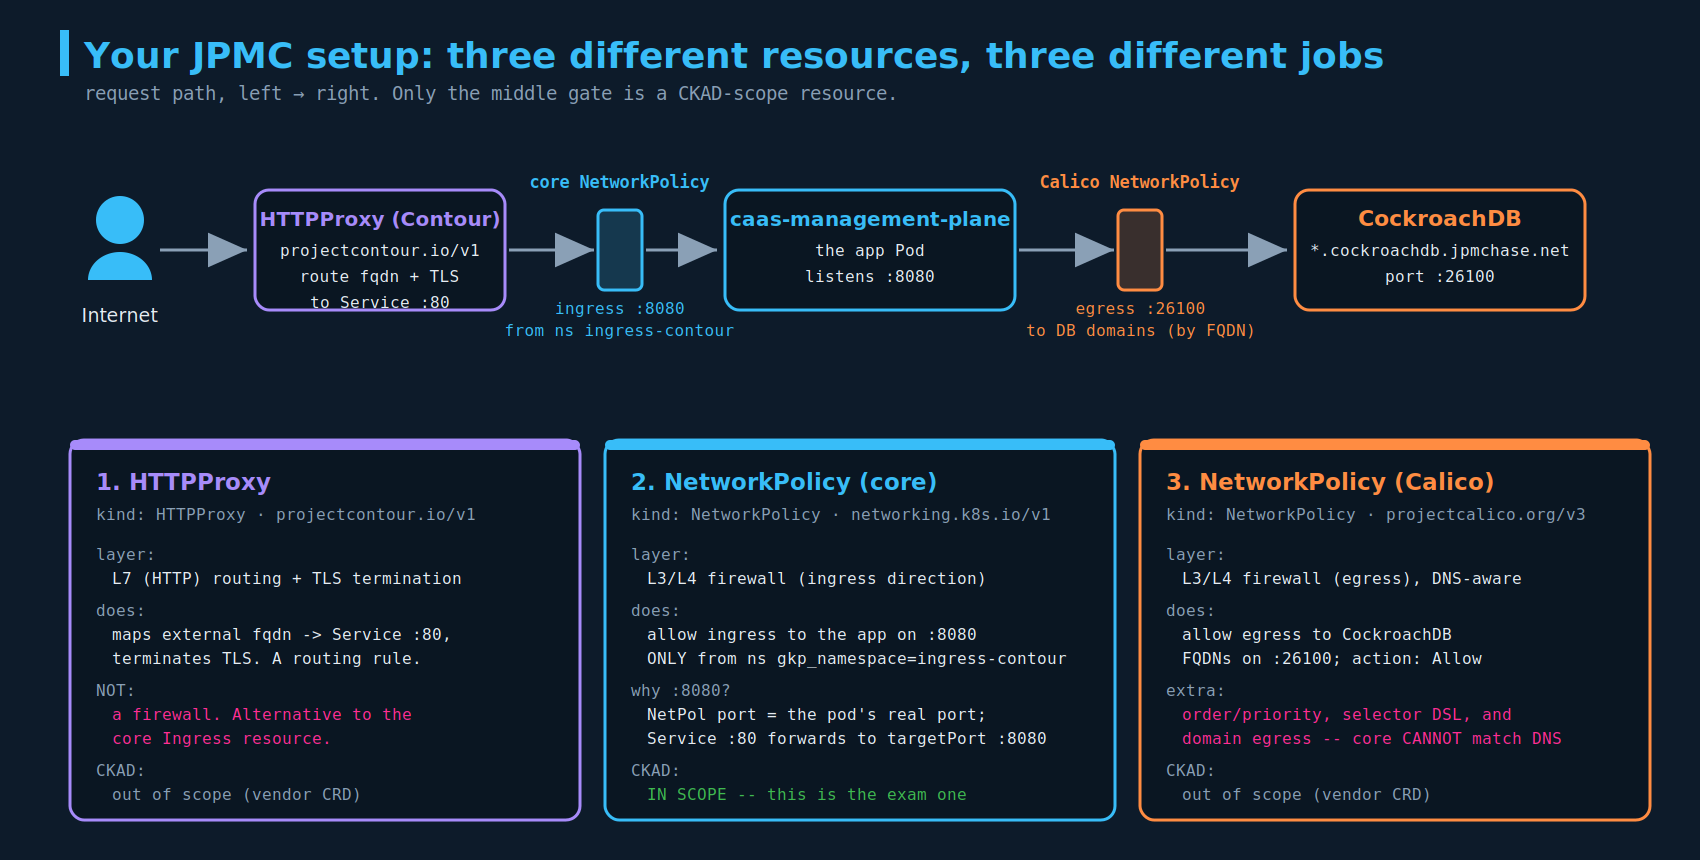
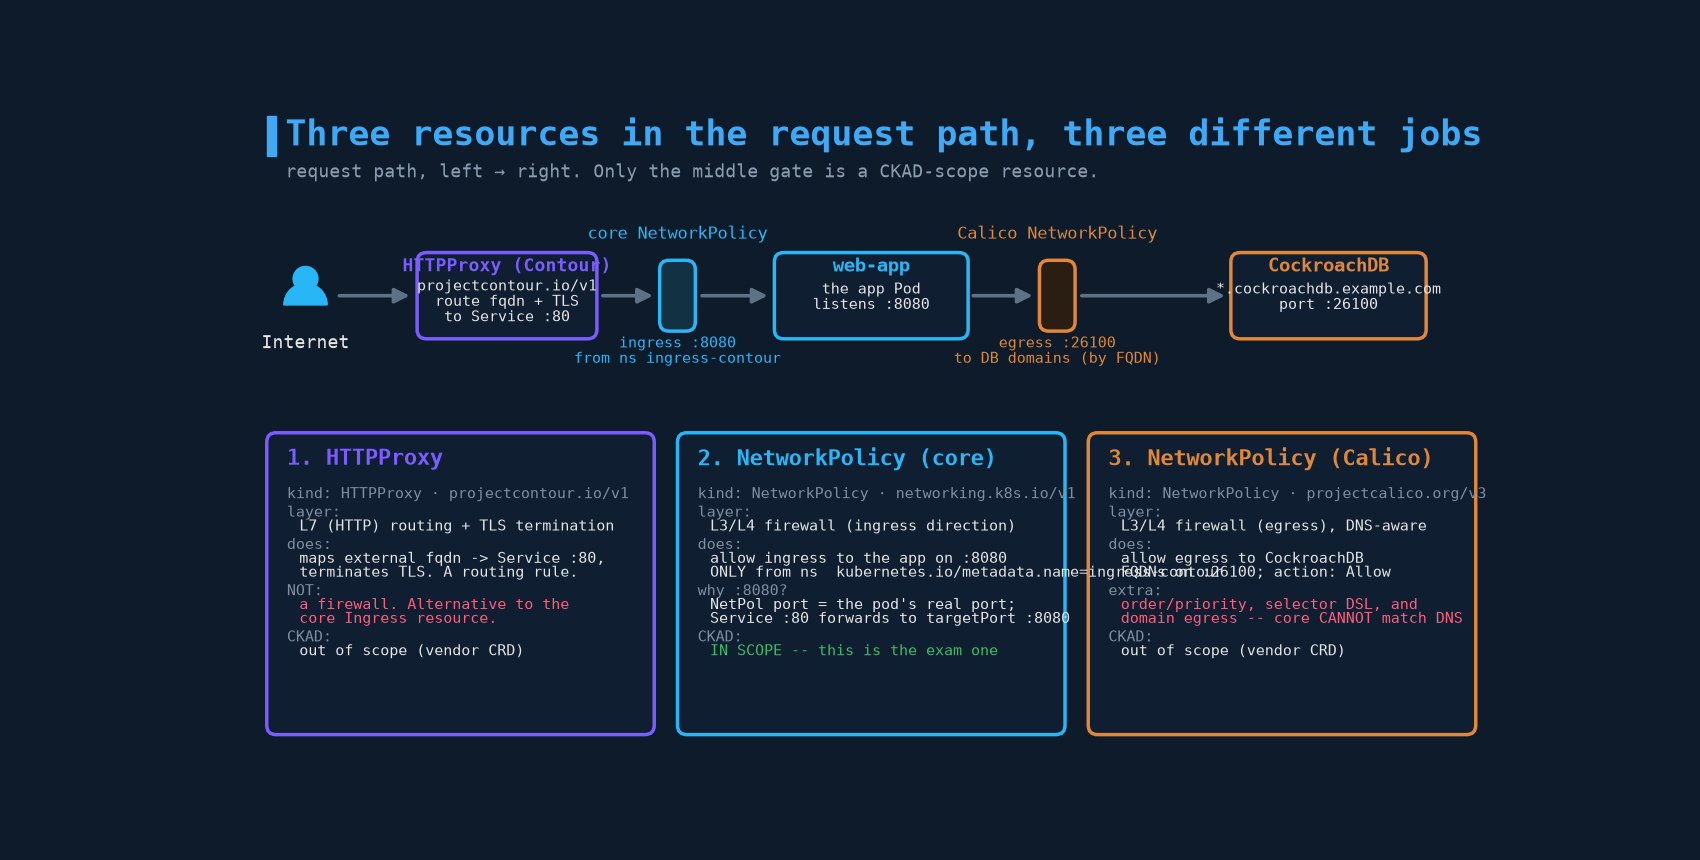
Genericize real-world example identifiers in notes and diagrams (#26)
Replace environment-specific names in example manifests and prose with generic
placeholders (web-app, example.com, a generic namespace). Regenerate two
diagrams (network-policy request-path topology and the probes real-world
example) with the generic labels so no environment-specific details remain.

diff --git a/notes/09-security/02-authentication.md b/notes/09-security/02-authentication.md
@@ -66,7 +66,7 @@ The API server supports multiple authentication plugins simultaneously. A reques
 | Static Token File | Deprecated — never use | Teaching only |
 | X.509 Certificates | Standard | Cluster components, kubeadm bootstrap |
 | OIDC | Standard for humans | Enterprise users, most modern clusters |
-| Kerberos (via OIDC) | Enterprise | Active Directory environments (JPMC) |
+| Kerberos (via OIDC) | Enterprise | Active Directory environments |
 | ServiceAccount JWT | Standard | Pods / in-cluster applications |
 | Exec Plugin | Standard (kubeconfig) | Wraps any external auth tool |
 | Webhook Token Auth | Advanced | Custom auth logic |
@@ -193,7 +193,7 @@ You type your password once. The client sends your username to the AS. The AS re
 The TGT is an encrypted blob you can't read directly (it's for the KDC), but you carry it. It says "the AS verified this principal at this time, expiring at T." Typically valid for 8 hours. This is why you don't need to re-enter your password every time at work — you authenticated once, got a TGT, and it's still valid.
 
 **Step 3 — Requesting a service ticket**
-When you want to access a service (say, Kubernetes), your client presents the TGT to the TGS and says "I want a ticket for `HTTP/kubernetes.jpmc.com`." The TGS validates the TGT, creates a **service ticket** for that specific service, and returns it.
+When you want to access a service (say, Kubernetes), your client presents the TGT to the TGS and says "I want a ticket for `HTTP/kubernetes.example.com`." The TGS validates the TGT, creates a **service ticket** for that specific service, and returns it.
 
 **Step 4 — Presenting the service ticket**
 Your client presents the service ticket to the service via GSSAPI/SPNEGO (HTTP-layer protocols that carry Kerberos tokens). The service decrypts the ticket using its own secret key (shared with the KDC during service registration). If it decrypts correctly, you're authenticated.
@@ -280,7 +280,7 @@ kubectl config view                            # show kubeconfig
 kubectl config current-context                 # active context
 kubectl config use-context casey@prod          # switch context
 kubectl config get-contexts                    # list all contexts
-kubectl config set-context --current --namespace=700515d201053-caas-dev  # change default ns
+kubectl config set-context --current --namespace=web-app-dev  # change default ns
 ```
 
 ---

diff --git a/notes/05-pod-design/01-labels-selectors-annotations.md b/notes/05-pod-design/01-labels-selectors-annotations.md
@@ -121,11 +121,11 @@ A NetworkPolicy is a textbook selector use: the policy uses a **pod selector** t
 apiVersion: networking.k8s.io/v1
 kind: NetworkPolicy
 metadata:
-  name: caas-management-plane-egress
+  name: web-app-egress
 spec:
   podSelector:
     matchLabels:
-      app: caas-management-plane     # the policy applies to pods with this label
+      app: web-app                   # the policy applies to pods with this label
   policyTypes:
     - Egress
   egress:
@@ -137,7 +137,7 @@ spec:
           port: 26100                 # all DB destinations shared this port
 ```
 
-What is happening: `podSelector` picks the app's pods by label, `policyTypes: [Egress]` says "control outbound traffic for these pods," and the `egress` block whitelists TCP to the CockroachDB destinations on `26100` so the app can insert into the database. The selector is the hinge - it scopes the whole policy to just the pods carrying `app: caas-management-plane`. (Note: in NetworkPolicy YAML the selector is written as `matchLabels` or `matchExpressions`; the semantics are equality on the `app` label. NetworkPolicy is a later topic; this is just to anchor why selectors matter.)
+What is happening: `podSelector` picks the app's pods by label, `policyTypes: [Egress]` says "control outbound traffic for these pods," and the `egress` block whitelists TCP to the CockroachDB destinations on `26100` so the app can insert into the database. The selector is the hinge - it scopes the whole policy to just the pods carrying `app: web-app`. (Note: in NetworkPolicy YAML the selector is written as `matchLabels` or `matchExpressions`; the semantics are equality on the `app` label. NetworkPolicy is a later topic; this is just to anchor why selectors matter.)
 
 ### `function` as an organizing label
 

diff --git a/notes/09-security/01-security-primitives.md b/notes/09-security/01-security-primitives.md
@@ -68,7 +68,7 @@ This is also how all cluster components authenticate to the API server: kubelet,
 
 Delegate authentication to an external identity system.
 
-**OIDC (OpenID Connect):** The modern enterprise approach. User authenticates with an Identity Provider (Azure AD, Google, Okta, Dex, JPMC's SSO). The IdP issues a JWT token. kubectl presents this JWT in the `Authorization: Bearer` header. The API server validates the JWT's signature against the IdP's public key without contacting the IdP on every request.
+**OIDC (OpenID Connect):** The modern enterprise approach. User authenticates with an Identity Provider (Azure AD, Google, Okta, Dex). The IdP issues a JWT token. kubectl presents this JWT in the `Authorization: Bearer` header. The API server validates the JWT's signature against the IdP's public key without contacting the IdP on every request.
 
 **LDAP:** Older enterprise directory protocol. Usually implemented via an authenticating proxy (like Dex) that speaks OIDC to Kubernetes and LDAP to the directory, rather than LDAP directly to Kubernetes.
 

diff --git a/notes/04-observability/03-startup-probes.md b/notes/04-observability/03-startup-probes.md
@@ -50,7 +50,7 @@ Rule of thumb: pick `failureThreshold × periodSeconds` ≈ the app's worst-case
 
 ## 4. Real-world example (Spring Boot Actuator)
 
-This is a production `Deployment` (`caas-management-plane`) using all three probes plus downward-API env vars.
+This is a production `Deployment` (`web-app`) using all three probes plus downward-API env vars.
 
 ![Real-world probe setup with startup, readiness, and liveness](./diagrams/probes-real-example.png)
 
@@ -59,7 +59,7 @@ spec:
   template:
     spec:
       containers:
-        - name: caas-management-plane
+        - name: web-app
           env:
             - name: INFO_KUBE_NAMESPACE
               valueFrom:

diff --git a/notes/11-kustomize/09-overlays.md b/notes/11-kustomize/09-overlays.md
@@ -67,7 +67,7 @@ bases:
 > resources:
 >   - ../../base        # the base is "a resource that happens to be a directory"
 > ```
-> The lecture (and many real repos, including the GKP overlay) still use `bases:`. It works,
+> The lecture (and many real repos) still use `bases:`. It works,
 > but prefer `resources:` in anything new — and know they mean the same thing when you read
 > the deprecated form.
 
